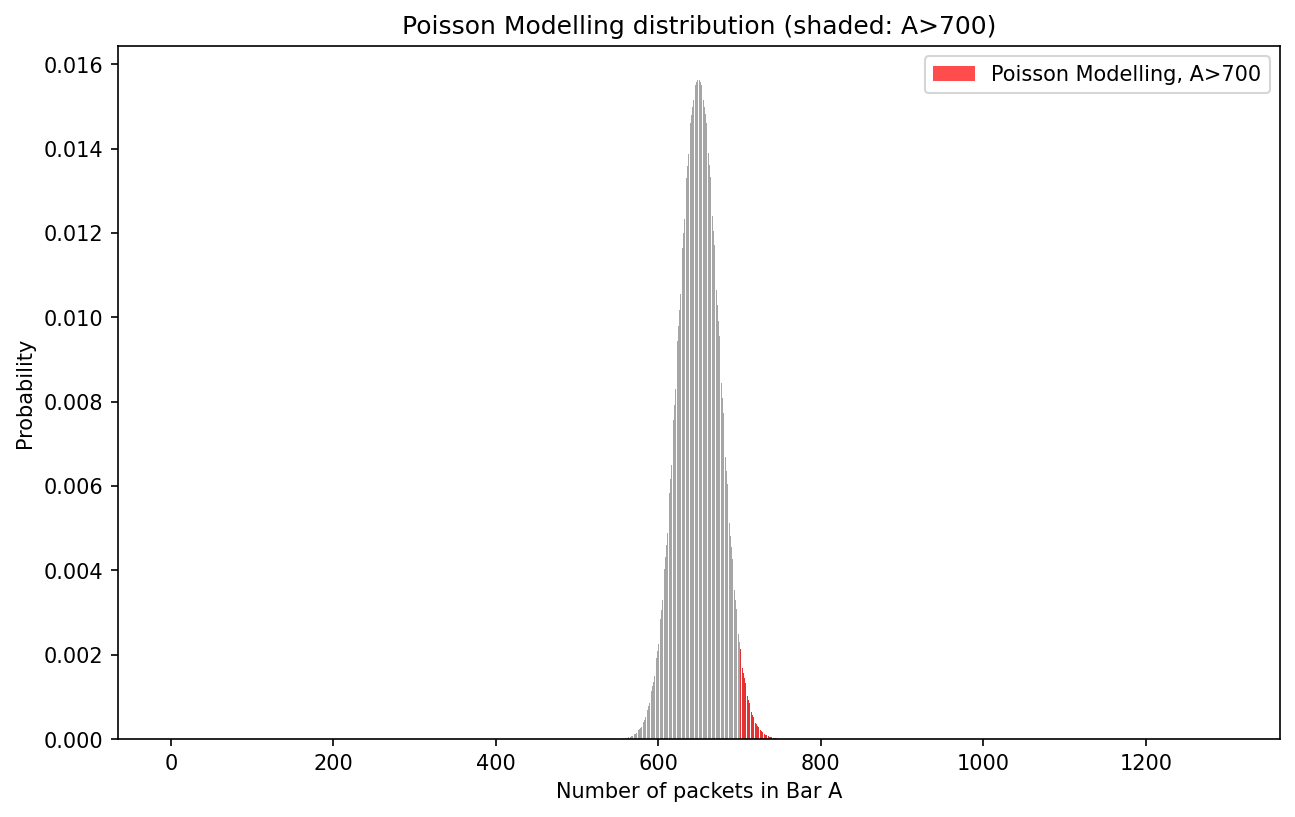
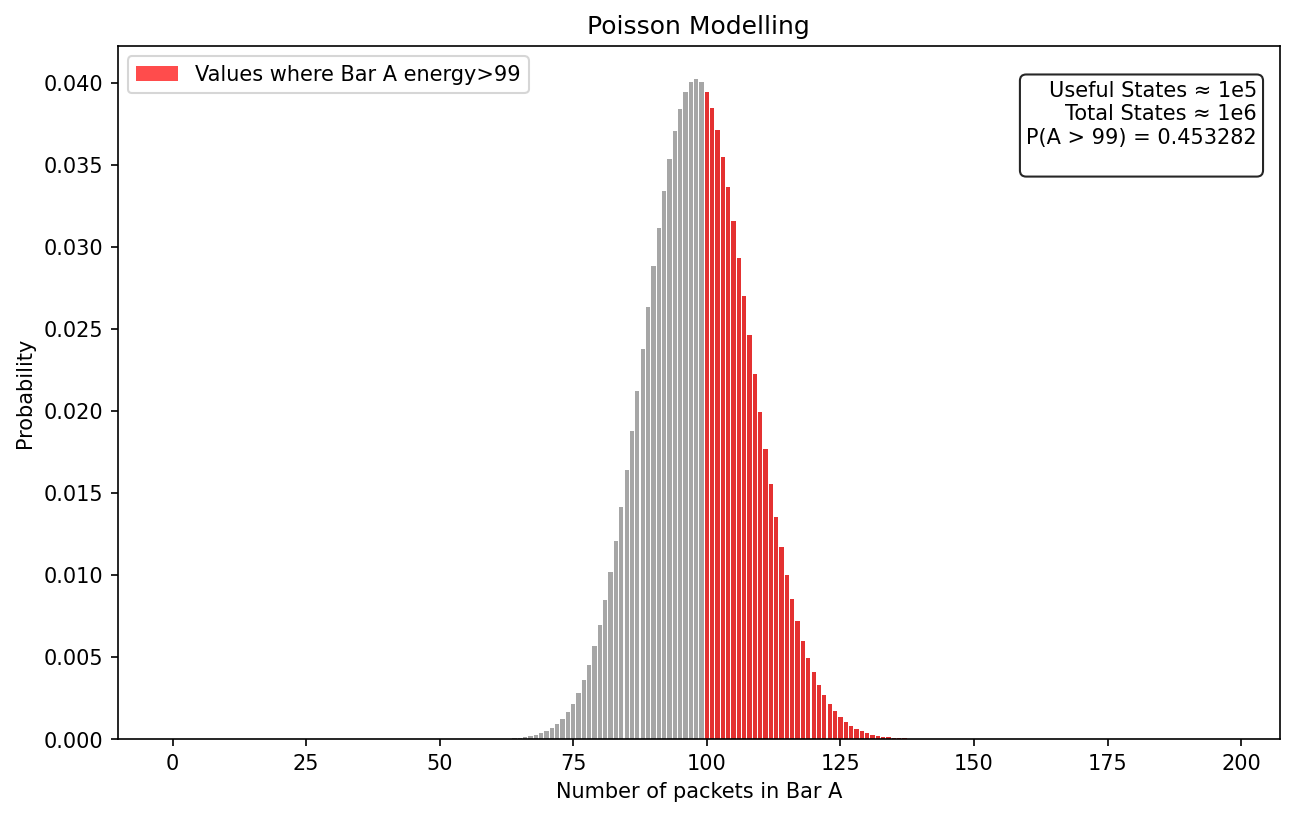
build approx func for Poisson

diff --git a/main.py b/main.py
@@ -1,4 +1,4 @@
-from math import comb
+import math
 from scipy.stats import poisson, binom
 import matplotlib.pyplot as plt
 import matplotlib
@@ -30,13 +30,13 @@ et = E1+E2 #total number of energy packets
 Pop = m1 / mt #percent of decimals taken up by bar 1
 
 x = np.arange(0, et+1)
-plt.xlim(0, min(mt,et))
+plt.xlim(0, min(m1+mt//10,et))
 
 
-if mt < 1000 and et < 500: #if the numbers are small enough, the choice function works fine
-
-    tempincreasestates = sum(comb(m1,min(m1-i,i)) * comb(m2,min(m2-et+i,et-i)) for i in range(E1+1,min(et+1,m1))) #the min function makes it less computationally intensive
-    totalstates = comb(mt,et)
+try: #normally does binomial
+    #the min function makes it less computationally intensive
+    tempincreasestates = sum(comb(m1,min(m1-i,i)) * comb(m2,min(m2-et+i,et-i)) for i in range(E1+1,min(et+1,m1))) 
+    totalstates = comb(mt,et) 
     p = tempincreasestates / totalstates
     
     label = 'Binomial Modelling'
@@ -47,13 +47,38 @@ if mt < 1000 and et < 500: #if the numbers are small enough, the choice function
     print(f'There are {totalstates:g} states in total')
     print(f'There is a {p:g} chance of the temperature increasing')
 
-else: #if they are too big, it defaults to poisson distribution
+    stats_text = (
+        f"Useful States = {tempincreasestates:g}\n"
+        f"Total States = {totalstates:g}\n"
+        f"P(A > {E1}) = {p:g}"
+    )
+
+except: #if they are too big, it defaults to poisson distribution
     lamd = et * Pop #lambda is total energy * percent of slots taken up by hot bar
     p = poisson.sf(E1,lamd) #calculates poisson distribution
     label = 'Poisson Modelling'
     pmf = poisson.pmf(x,lamd)
+
+    # symmetry: C(mt, et) = C(mt, mt-et)
+    et = min(et, mt - et)
+
+    # Stirling-based approximation
+    totalstatesapprox = int(round(
+        et * math.log10(mt)
+        - (et * math.log10(et) - et / math.log(10) + 0.5 * math.log10(2 * math.pi * et)),0
+    ))
+
+    tempincreasestatesapprox = int(round(totalstatesapprox + math.log(p),0))
+    approx = "\u2248"
+
     print('Numbers too large to provide total states')
     print(f'Probability of heat increasing is {p:g}') 
+
+    stats_text = (
+        f"Useful States {approx} 1e{tempincreasestatesapprox}\n"
+        f"Total States {approx} 1e{totalstatesapprox}\n"
+        f"P(A > {E1}) = {p:g}\n"
+    )
 
 
 
@@ -64,12 +89,22 @@ plt.figure(figsize=(10,6))
 shade_x = x[x > E1]
 shade_pmf = pmf[x > E1]
 plt.bar(x,pmf, alpha=0.7, color = 'grey')
-plt.bar(shade_x, shade_pmf, alpha=0.7, color='red', label=f'{label}, A>{E1}')
+plt.bar(shade_x, shade_pmf, alpha=0.7, color='red', label=f'Values where Bar A energy>{E1}')
+
+
+# Add box (axes coords: 0–1)
+plt.text(
+    0.98, 0.95, stats_text,
+    transform=plt.gca().transAxes,
+    fontsize=10,
+    verticalalignment='top',
+    horizontalalignment='right',
+    bbox=dict(boxstyle="round", facecolor="white", alpha=0.85))
 
 # Labels and legend
 plt.xlabel("Number of packets in Bar A")
 plt.ylabel("Probability")
-plt.title(f"{label} distribution (shaded: A>{E1})")
+plt.title(f"{label}")
 plt.legend()
 plt.savefig("distribution.png", dpi=150, bbox_inches="tight")
 plt.close()
